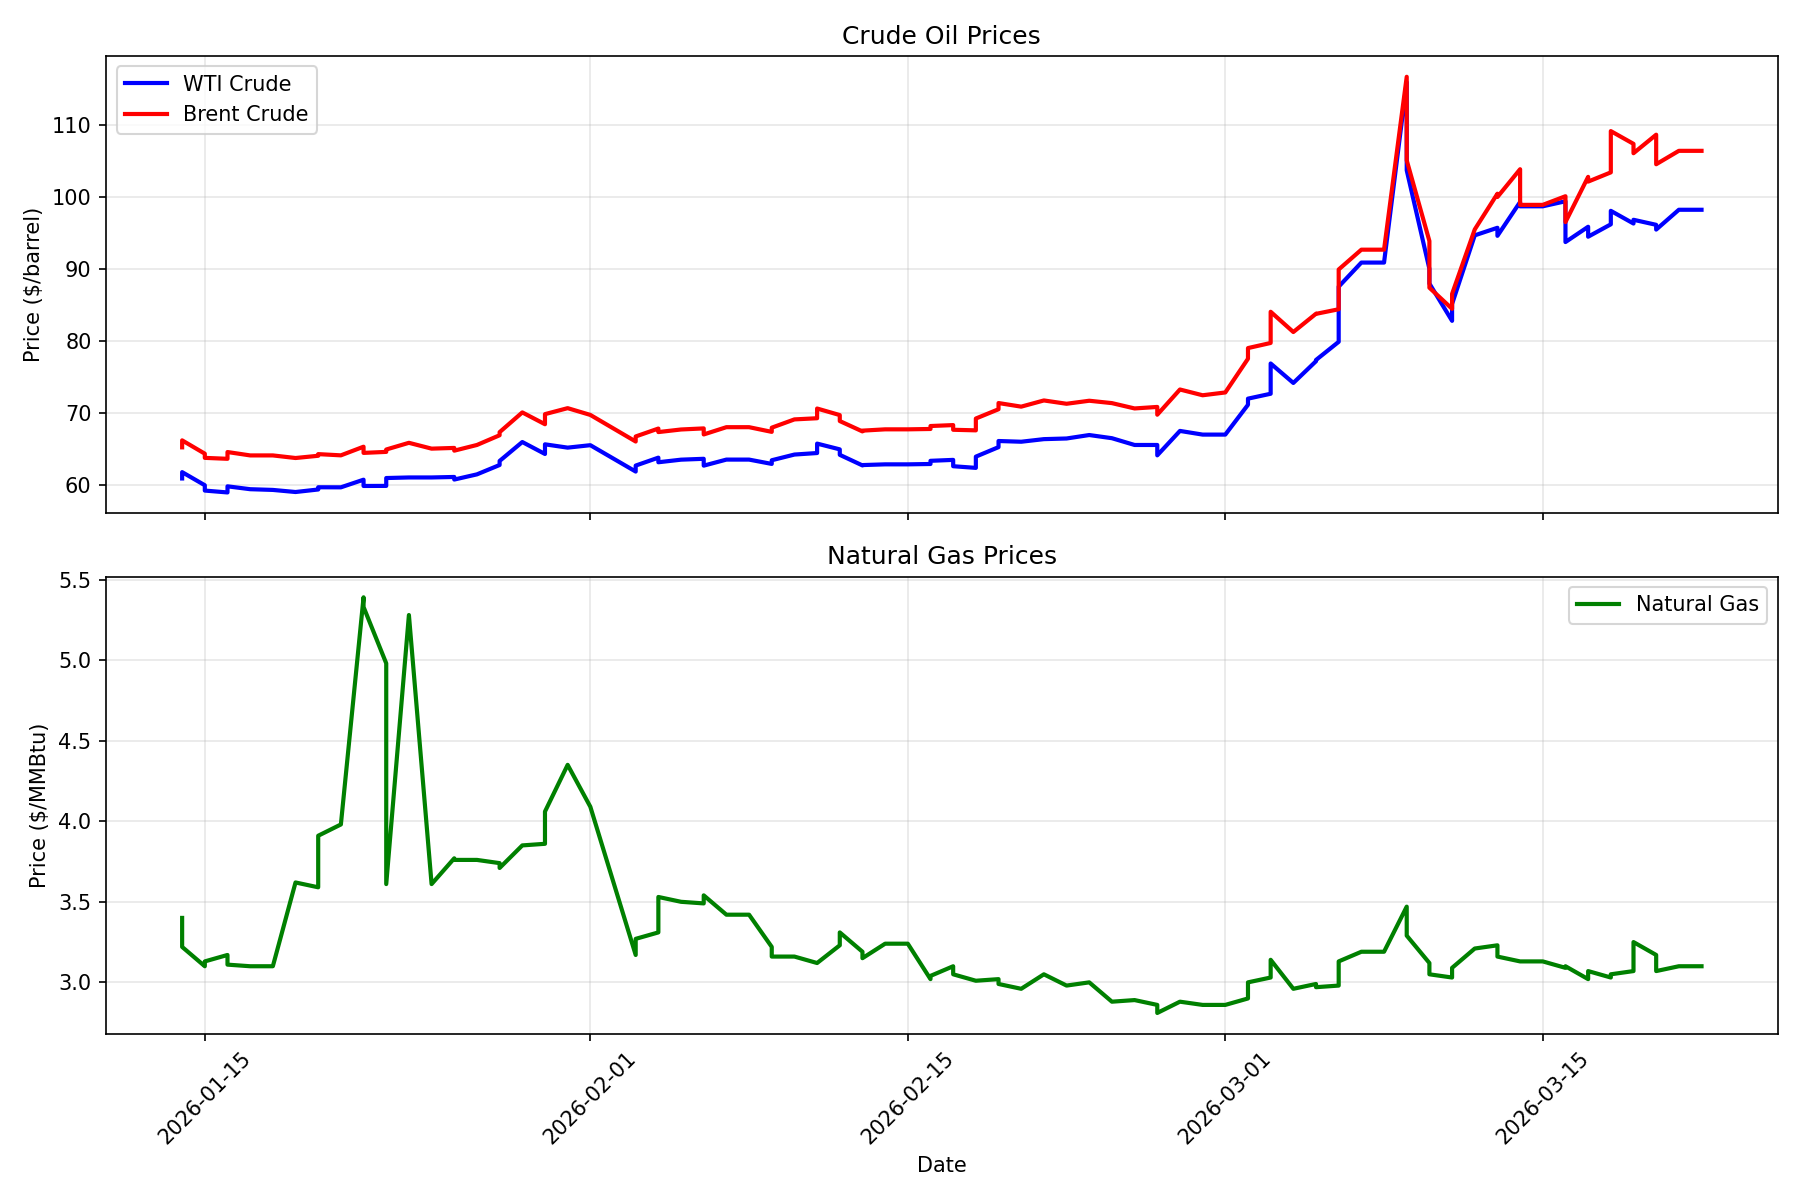
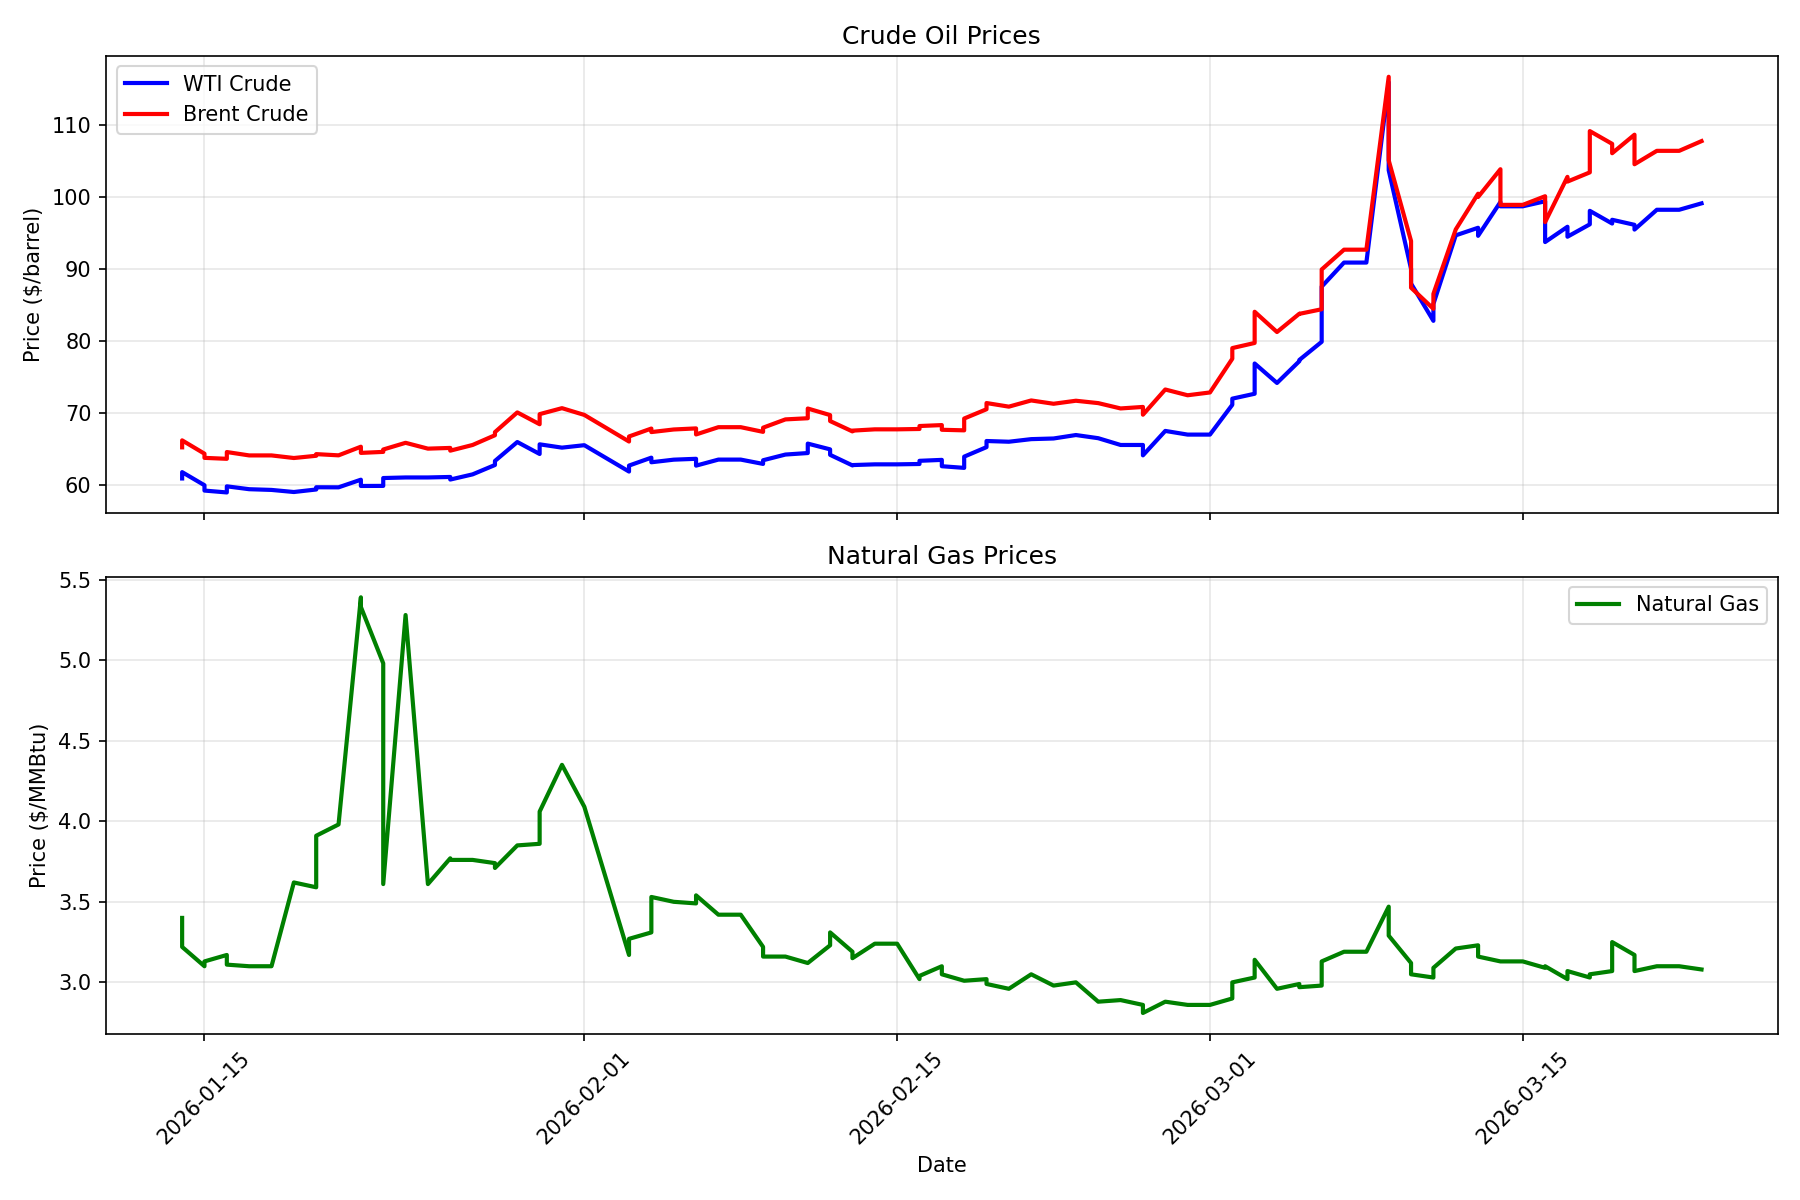
Daily price update: 2026-03-23

diff --git a/README.md b/README.md
@@ -2,16 +2,16 @@
 
 Automated daily tracking of chemical commodity prices and chemical company stocks.
 
-## Latest Prices (Updated: 2026-03-22)
+## Latest Prices (Updated: 2026-03-23)
 
 ### Energy Commodities
 
 | Commodity | Price | Change (24h) | Unit |
 |-----------|-------|--------------|------|
-| WTI Crude Oil | $98.23 | +0.00 (+0.00%) | $/barrel |
-| Brent Crude Oil | $106.41 | +0.00 (+0.00%) | $/barrel |
-| Natural Gas | $3.10 | +0.00 (+0.00%) | $/MMBtu |
-| Heating Oil | $4.24 | +0.00 (+0.00%) | $/gallon |
+| WTI Crude Oil | $99.12 | +0.00 (+0.00%) | $/barrel |
+| Brent Crude Oil | $107.76 | +0.00 (+0.00%) | $/barrel |
+| Natural Gas | $3.08 | +0.00 (+0.00%) | $/MMBtu |
+| Heating Oil | $4.30 | +0.00 (+0.00%) | $/gallon |
 
 ### Chemical Company Stocks
 

diff --git a/logs/update_log.md b/logs/update_log.md
@@ -125,3 +125,4 @@ Daily updates to the chemical engineering data repository.
 - **2026-03-20 14:14:38**: Updated 4 energy prices, 8 stocks, 0 FRED series
 - **2026-03-21 14:05:29**: Updated 4 energy prices, 8 stocks, 0 FRED series
 - **2026-03-22 14:06:31**: Updated 4 energy prices, 8 stocks, 0 FRED series
+- **2026-03-23 00:00:05**: Updated 4 energy prices, 8 stocks, 0 FRED series
